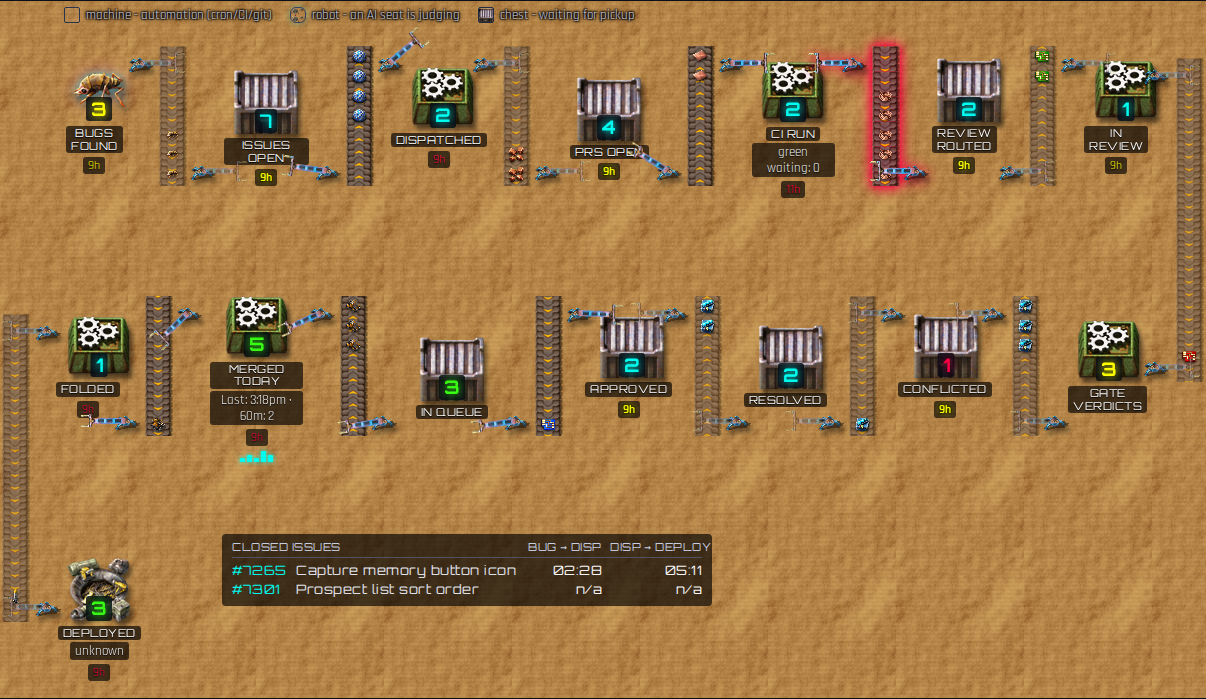
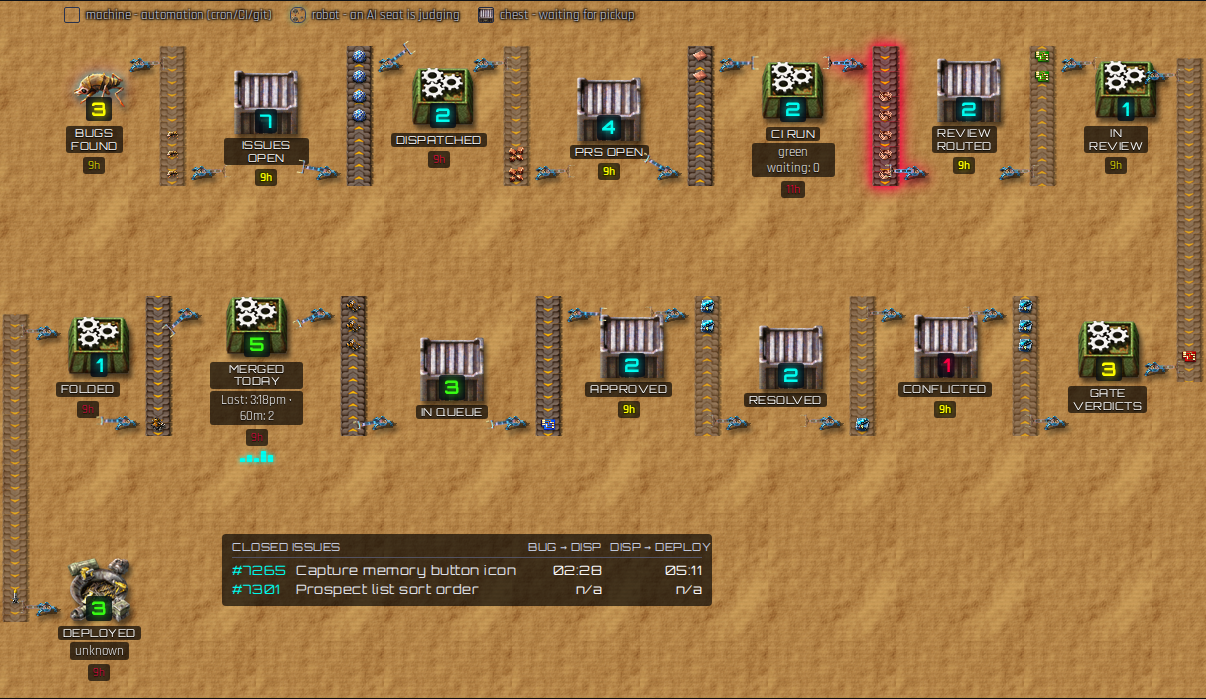
fix(monitor): fast-inserter arm back to its normal one-tile reach
Ben: "you've stretched out the blue arms on the fast inserters - make
them their normal size." A fast inserter reaches one tile; in his
close-up the extended arm is about the tripod's own width. 13x30 (sprite
aspect kept) instead of 20x46, still pivoting on the hub.

Claude-Session: https://claude.ai/code/session_015a21LH9eqkn4oZydkWAQ3i

diff --git a/queue_router.py b/queue_router.py
@@ -7401,8 +7401,12 @@ image-rendering:pixelated;opacity:.85;filter:var(--ground-shadow)}
    is 20x46 (sprite aspect kept, longer like the reference - about 1.5x the
    tripod's width) and pivots at its own bottom edge, placed on the hub. */
 .ship-inserter{z-index:2}
-.ship-inserter .inserter-arm{position:absolute;left:5px;top:-29px;width:20px;height:46px;
-background-repeat:no-repeat;background-size:20px 46px;image-rendering:pixelated;
+/* Ben: "you've stretched out the blue arms - make them their normal size."
+   A fast inserter reaches one tile: in his close-up the extended arm is
+   about the tripod's own width, not 1.5x it. 13x30 (sprite aspect kept),
+   still pivoting at its bottom edge on the hub at (14.6, 17.4). */
+.ship-inserter .inserter-arm{position:absolute;left:8px;top:-13px;width:13px;height:30px;
+background-repeat:no-repeat;background-size:13px 30px;image-rendering:pixelated;
 transform-origin:50% 100%;transform:rotate(var(--arm-rest,90deg));transition:transform .4s ease,opacity .4s ease}
 .ship-inserter.idle .inserter-arm{opacity:.4}
 /* LORE order 14 "the inserters must swing": a real Factorio inserter's arm
